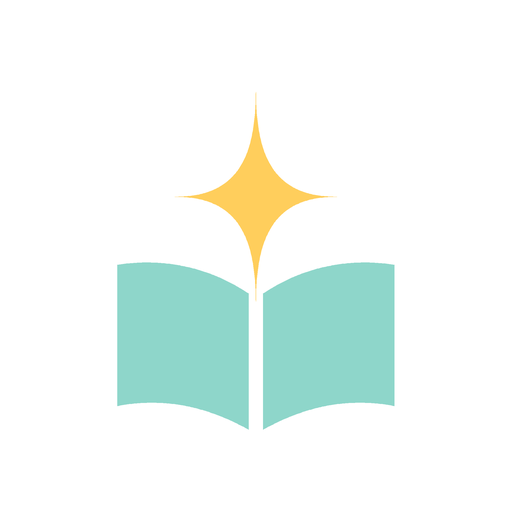
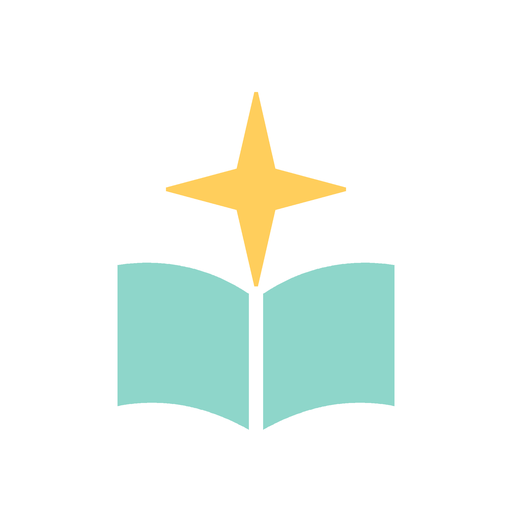
홈 화면 아이콘 별을 참고 그림의 십자 모양으로

diff --git a/index.html b/index.html
@@ -5,9 +5,9 @@
 <title>말씀 묵상 노트</title>
 <link rel="manifest" href="manifest.json">
 <meta name="theme-color" content="#0B0B0D">
-<link rel="icon" href="icon-192.png?v=4">
-<link rel="apple-touch-icon" href="apple-touch-icon.png?v=4">
-<meta name="app-build" content="2026-10-29-18">
+<link rel="icon" href="icon-192.png?v=5">
+<link rel="apple-touch-icon" href="apple-touch-icon.png?v=5">
+<meta name="app-build" content="2026-10-29-19">
 <script>
 /* 새 버전 확인: 브라우저가 예전 파일(최대 10분)을 쓰고 있으면 새 파일을 받아 한 번 새로고침 */
 (function(){try{

diff --git a/sw.js b/sw.js
@@ -2,7 +2,7 @@
    - 화면(HTML)은 인터넷이 되면 늘 새로 받아 오고, 안 되면 마지막으로 받아 둔 것을 보여 줌
    - 아이콘·글꼴 같은 파일은 받아 둔 것을 먼저 쓰고 뒤에서 새로 받아 둠
    - 로그인·동기화(Supabase)와 다른 사이트 요청은 건드리지 않음 */
-var CACHE = "bible-notes-v4";
+var CACHE = "bible-notes-v5";
 var CORE = ["./", "./index.html", "./manifest.json", "./icon-192.png", "./icon-512.png", "./tongdok/", "./tongdok2/"];
 
 self.addEventListener("install", function (e) {
